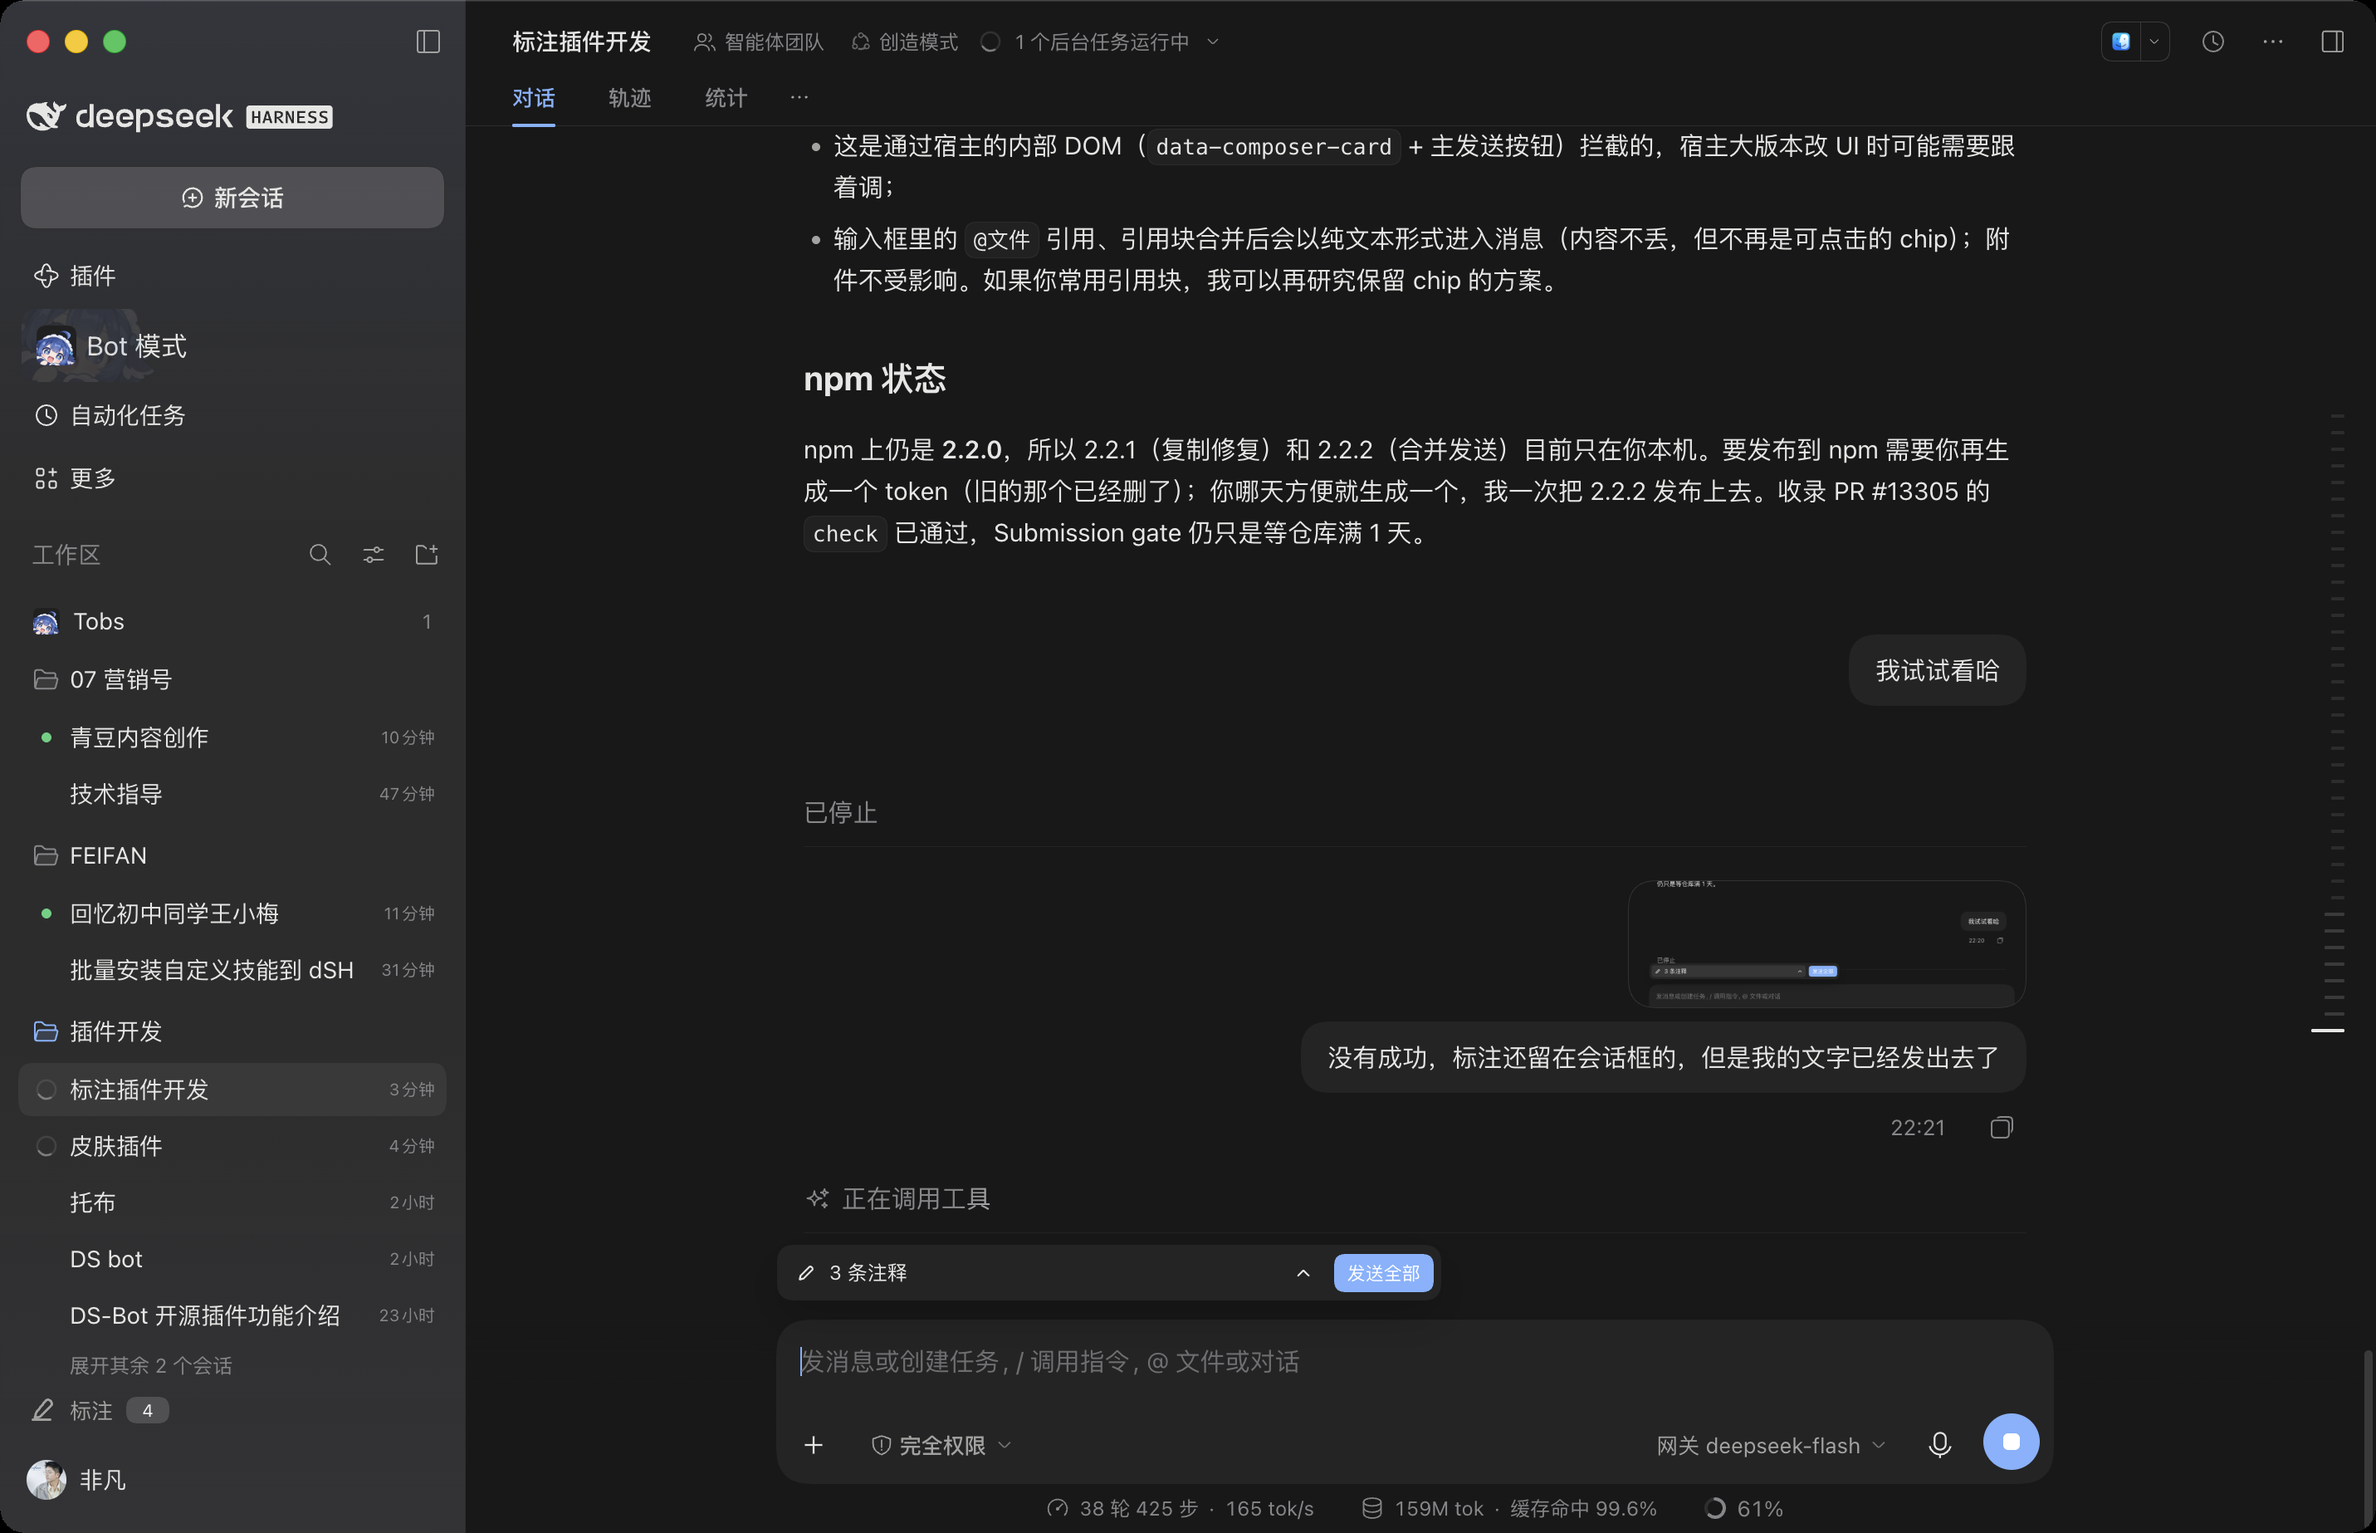
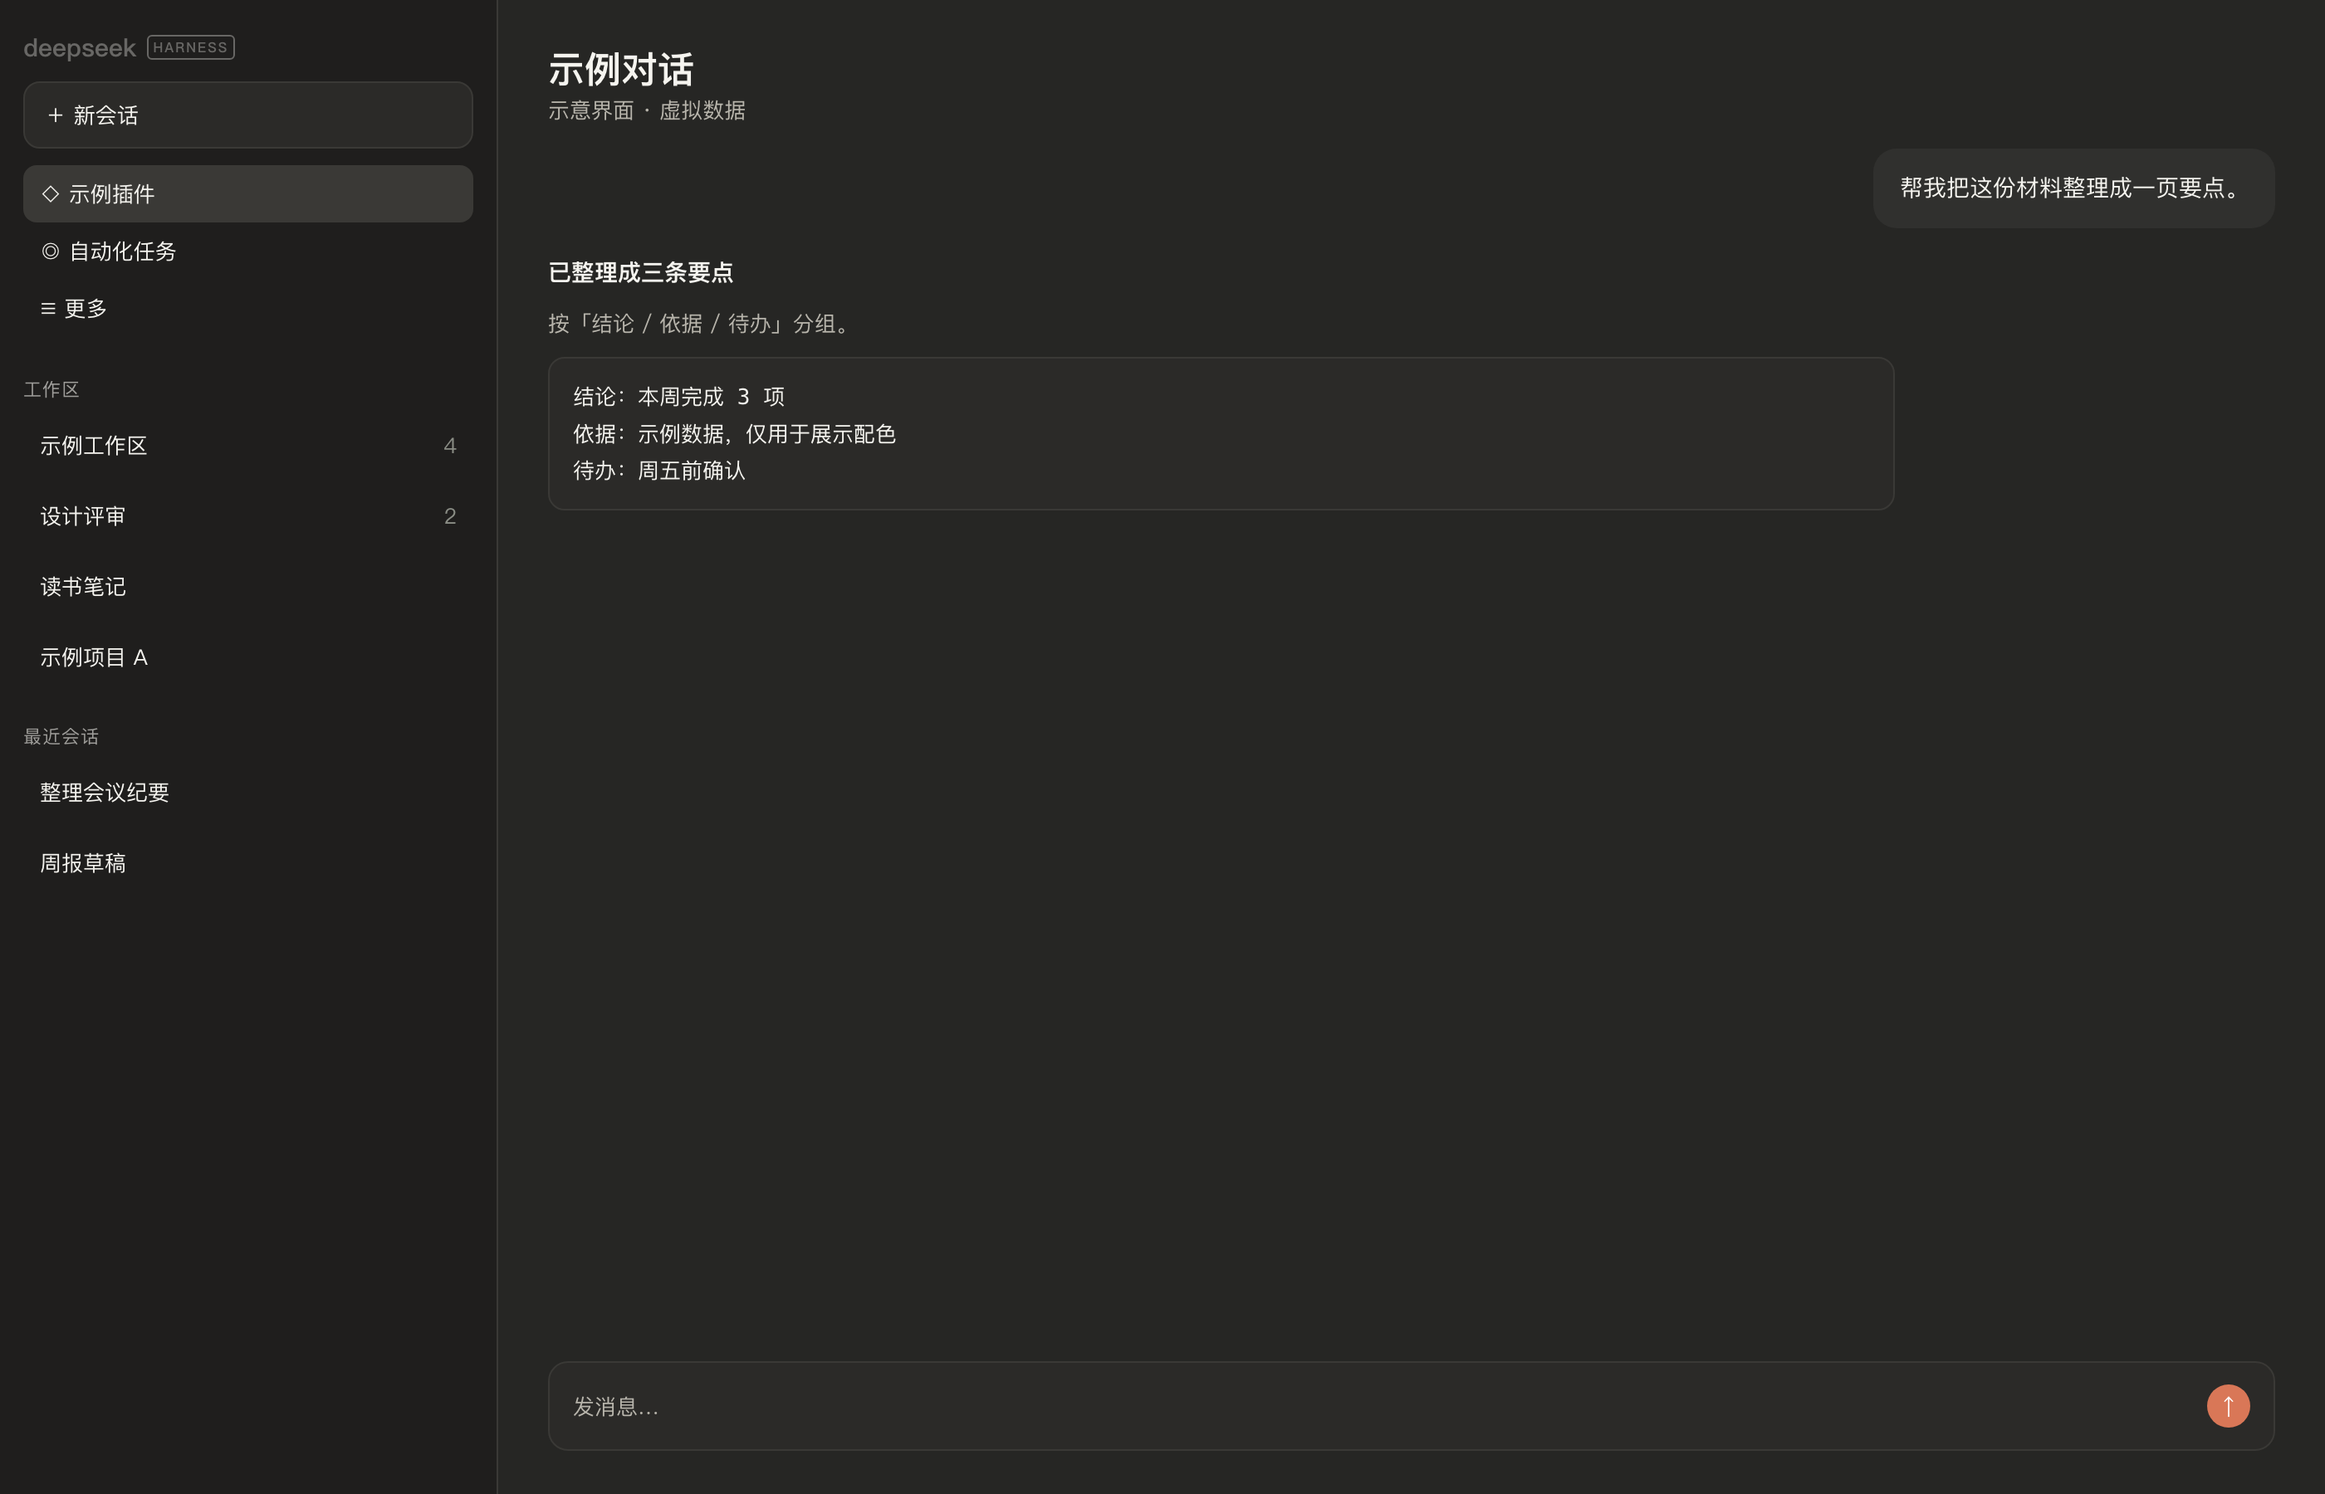
docs: replace real-UI screenshots with virtual mock-ups (no real workspace or session data)

diff --git a/README.md b/README.md
@@ -16,6 +16,8 @@ A skin switcher **inside Settings**, not the sidebar: two global palettes for De
 | --- | --- |
 | ![Paper](https://raw.githubusercontent.com/feifandiv/dsh-skins/main/docs/paper-light.png) | ![Ink](https://raw.githubusercontent.com/feifandiv/dsh-skins/main/docs/ink-dark.png) |
 
+> Both panels are an **illustrative mock-up with made-up data**: no real workspace, session or file appears. They exist only to compare the two palettes.
+
 ## Usage
 
 **Settings → General → Skin** (between “Language” and “Appearance”):

diff --git a/README.zh.md b/README.zh.md
@@ -16,6 +16,8 @@
 | --- | --- |
 | ![暖纸](https://raw.githubusercontent.com/feifandiv/dsh-skins/main/docs/paper-light.png) | ![墨暖](https://raw.githubusercontent.com/feifandiv/dsh-skins/main/docs/ink-dark.png) |
 
+> 上面两栏是**示意界面（虚拟数据）**：不包含任何真实工作区、会话或文件，只用来对比两套配色。
+
 ## 使用
 
 入口在 **设置 → 通用 → 皮肤**（在「语言」下面、「外观」上面）：
